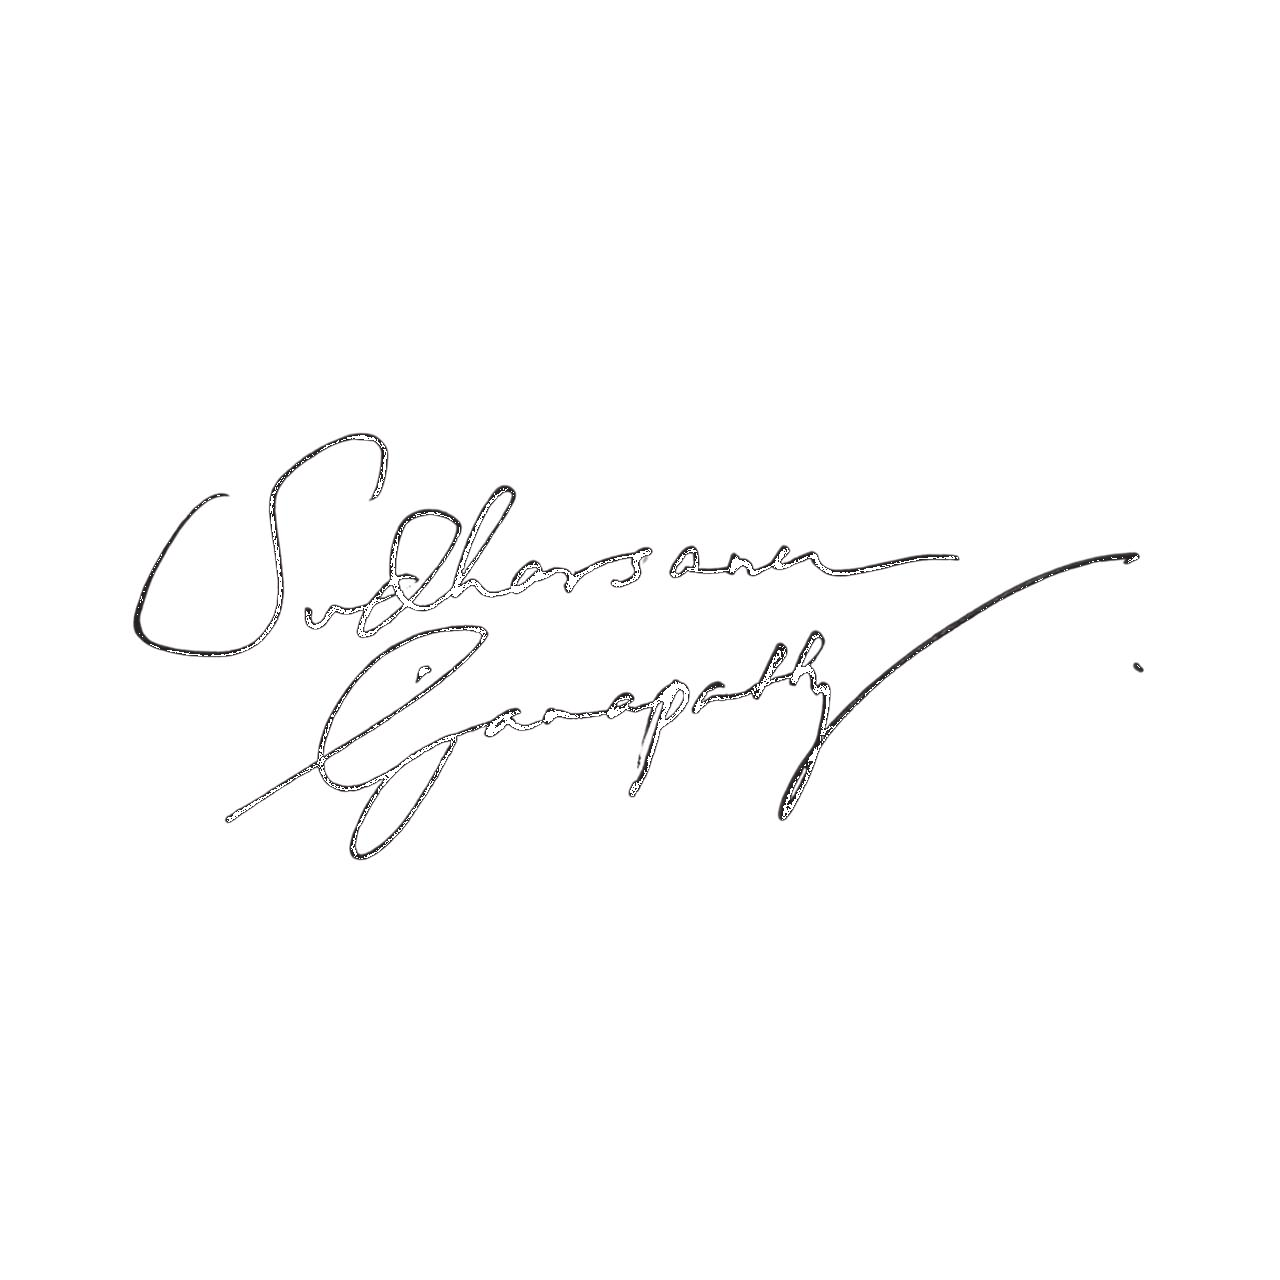
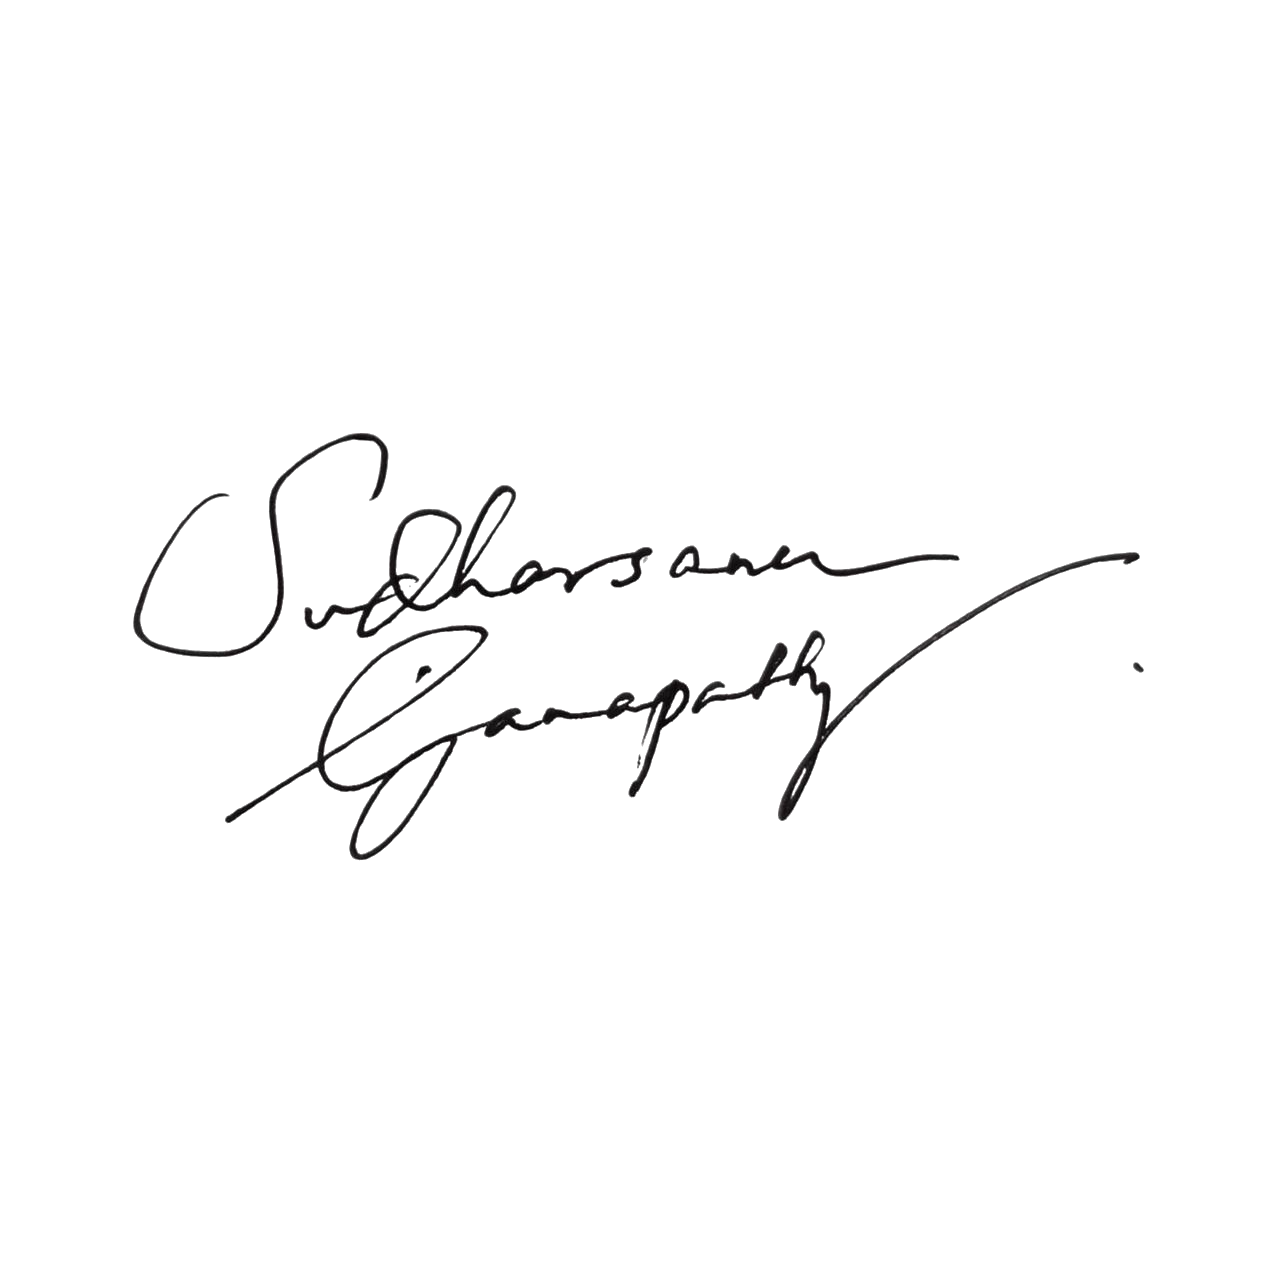
Fix signature images: correct bg removal and swap light/dark assignments
signature-black.png = white ink, transparent bg (home/dark nav)
signature-white.png = black ink, transparent bg (all other pages)

diff --git a/index.html b/index.html
@@ -25,7 +25,7 @@
             <span class="logo__dot" aria-hidden="true"></span>
             <span>Hi! I&rsquo;m SG <span class="logo__wave" aria-hidden="true">👋🏽</span></span>
           </span>
-          <img src="images/signature-white.png" class="logo__sig" alt="Sudharsanan Ganapathy" />
+          <img src="images/signature-black.png" class="logo__sig" alt="Sudharsanan Ganapathy" />
         </a>
         <ul class="nav__links">
           <li><a href="index.html" class="nav__link is-active">Home</a></li>

diff --git a/programs.html b/programs.html
@@ -246,7 +246,7 @@
             <span class="logo__dot" aria-hidden="true"></span>
             <span>Hi! I&rsquo;m SG <span class="logo__wave" aria-hidden="true">👋🏽</span></span>
           </span>
-          <img src="images/signature-black.png" class="logo__sig" alt="Sudharsanan Ganapathy" />
+          <img src="images/signature-white.png" class="logo__sig" alt="Sudharsanan Ganapathy" />
         </a>
         <ul class="nav__links">
           <li><a href="index.html" class="nav__link">Home</a></li>

diff --git a/book.html b/book.html
@@ -85,7 +85,7 @@
             <span class="logo__dot" aria-hidden="true"></span>
             <span>Hi! I&rsquo;m SG <span class="logo__wave" aria-hidden="true">👋🏽</span></span>
           </span>
-          <img src="images/signature-black.png" class="logo__sig" alt="Sudharsanan Ganapathy" />
+          <img src="images/signature-white.png" class="logo__sig" alt="Sudharsanan Ganapathy" />
         </a>
         <ul class="nav__links">
           <li><a href="index.html" class="nav__link">Home</a></li>

diff --git a/contact.html b/contact.html
@@ -18,7 +18,7 @@
             <span class="logo__dot" aria-hidden="true"></span>
             <span>Hi! I&rsquo;m SG <span class="logo__wave" aria-hidden="true">👋🏽</span></span>
           </span>
-          <img src="images/signature-black.png" class="logo__sig" alt="Sudharsanan Ganapathy" />
+          <img src="images/signature-white.png" class="logo__sig" alt="Sudharsanan Ganapathy" />
         </a>
         <ul class="nav__links">
           <li><a href="index.html" class="nav__link">Home</a></li>

diff --git a/newsletter.html b/newsletter.html
@@ -24,7 +24,7 @@
             <span class="logo__dot" aria-hidden="true"></span>
             <span>Hi! I&rsquo;m SG <span class="logo__wave" aria-hidden="true">👋🏽</span></span>
           </span>
-          <img src="images/signature-black.png" class="logo__sig" alt="Sudharsanan Ganapathy" />
+          <img src="images/signature-white.png" class="logo__sig" alt="Sudharsanan Ganapathy" />
         </a>
         <ul class="nav__links">
           <li><a href="index.html" class="nav__link">Home</a></li>

diff --git a/privacy.html b/privacy.html
@@ -18,7 +18,7 @@
             <span class="logo__dot" aria-hidden="true"></span>
             <span>Hi! I&rsquo;m SG <span class="logo__wave" aria-hidden="true">👋🏽</span></span>
           </span>
-          <img src="images/signature-black.png" class="logo__sig" alt="Sudharsanan Ganapathy" />
+          <img src="images/signature-white.png" class="logo__sig" alt="Sudharsanan Ganapathy" />
         </a>
         <ul class="nav__links">
           <li><a href="index.html" class="nav__link">Home</a></li>

diff --git a/refund.html b/refund.html
@@ -18,7 +18,7 @@
             <span class="logo__dot" aria-hidden="true"></span>
             <span>Hi! I&rsquo;m SG <span class="logo__wave" aria-hidden="true">👋🏽</span></span>
           </span>
-          <img src="images/signature-black.png" class="logo__sig" alt="Sudharsanan Ganapathy" />
+          <img src="images/signature-white.png" class="logo__sig" alt="Sudharsanan Ganapathy" />
         </a>
         <ul class="nav__links">
           <li><a href="index.html" class="nav__link">Home</a></li>

diff --git a/speaking.html b/speaking.html
@@ -18,7 +18,7 @@
             <span class="logo__dot" aria-hidden="true"></span>
             <span>Hi! I&rsquo;m SG <span class="logo__wave" aria-hidden="true">👋🏽</span></span>
           </span>
-          <img src="images/signature-black.png" class="logo__sig" alt="Sudharsanan Ganapathy" />
+          <img src="images/signature-white.png" class="logo__sig" alt="Sudharsanan Ganapathy" />
         </a>
         <ul class="nav__links">
           <li><a href="index.html" class="nav__link">Home</a></li>

diff --git a/terms.html b/terms.html
@@ -18,7 +18,7 @@
             <span class="logo__dot" aria-hidden="true"></span>
             <span>Hi! I&rsquo;m SG <span class="logo__wave" aria-hidden="true">👋🏽</span></span>
           </span>
-          <img src="images/signature-black.png" class="logo__sig" alt="Sudharsanan Ganapathy" />
+          <img src="images/signature-white.png" class="logo__sig" alt="Sudharsanan Ganapathy" />
         </a>
         <ul class="nav__links">
           <li><a href="index.html" class="nav__link">Home</a></li>

diff --git a/work-with-me.html b/work-with-me.html
@@ -18,7 +18,7 @@
             <span class="logo__dot" aria-hidden="true"></span>
             <span>Hi! I&rsquo;m SG <span class="logo__wave" aria-hidden="true">👋🏽</span></span>
           </span>
-          <img src="images/signature-black.png" class="logo__sig" alt="Sudharsanan Ganapathy" />
+          <img src="images/signature-white.png" class="logo__sig" alt="Sudharsanan Ganapathy" />
         </a>
         <ul class="nav__links">
           <li><a href="index.html" class="nav__link">Home</a></li>
